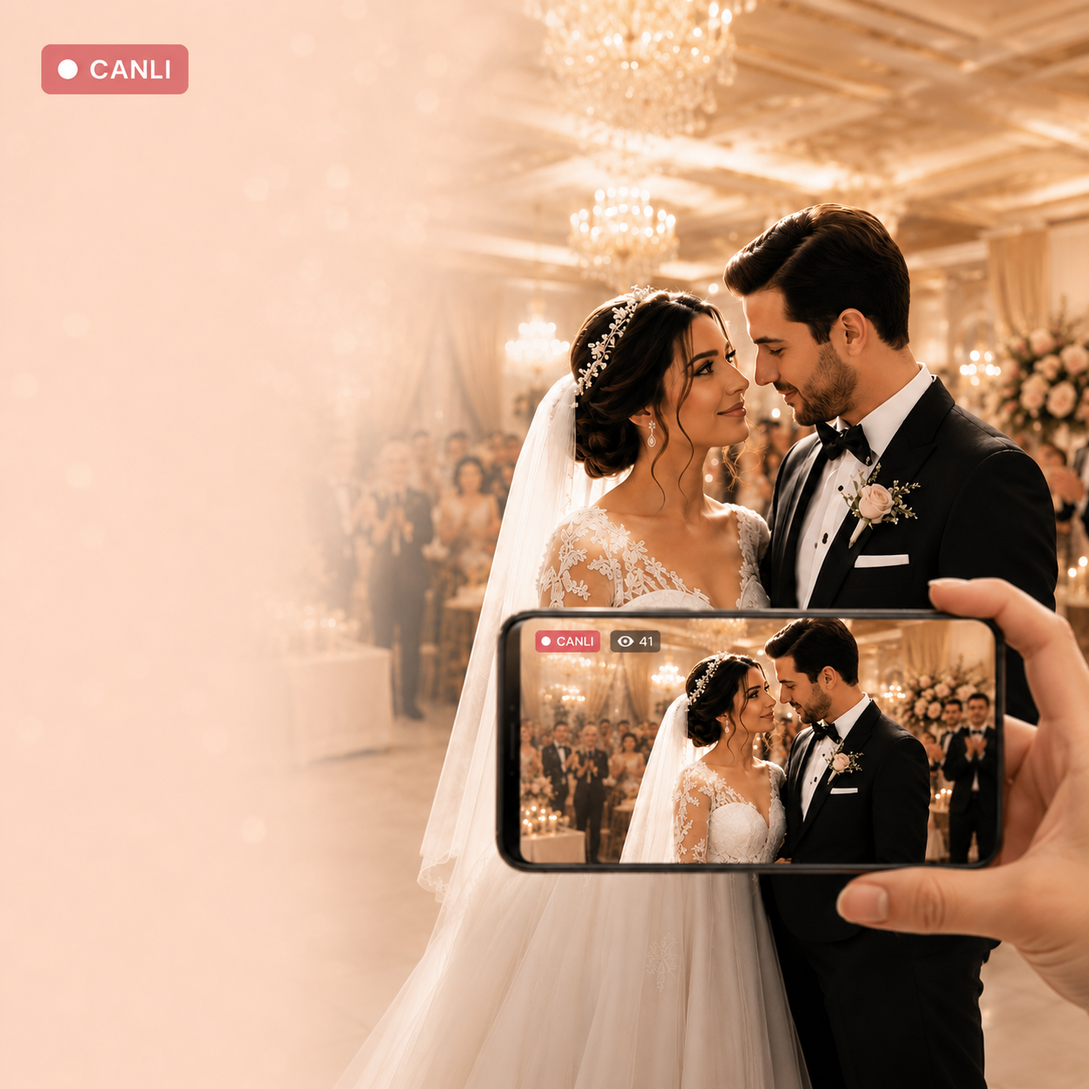
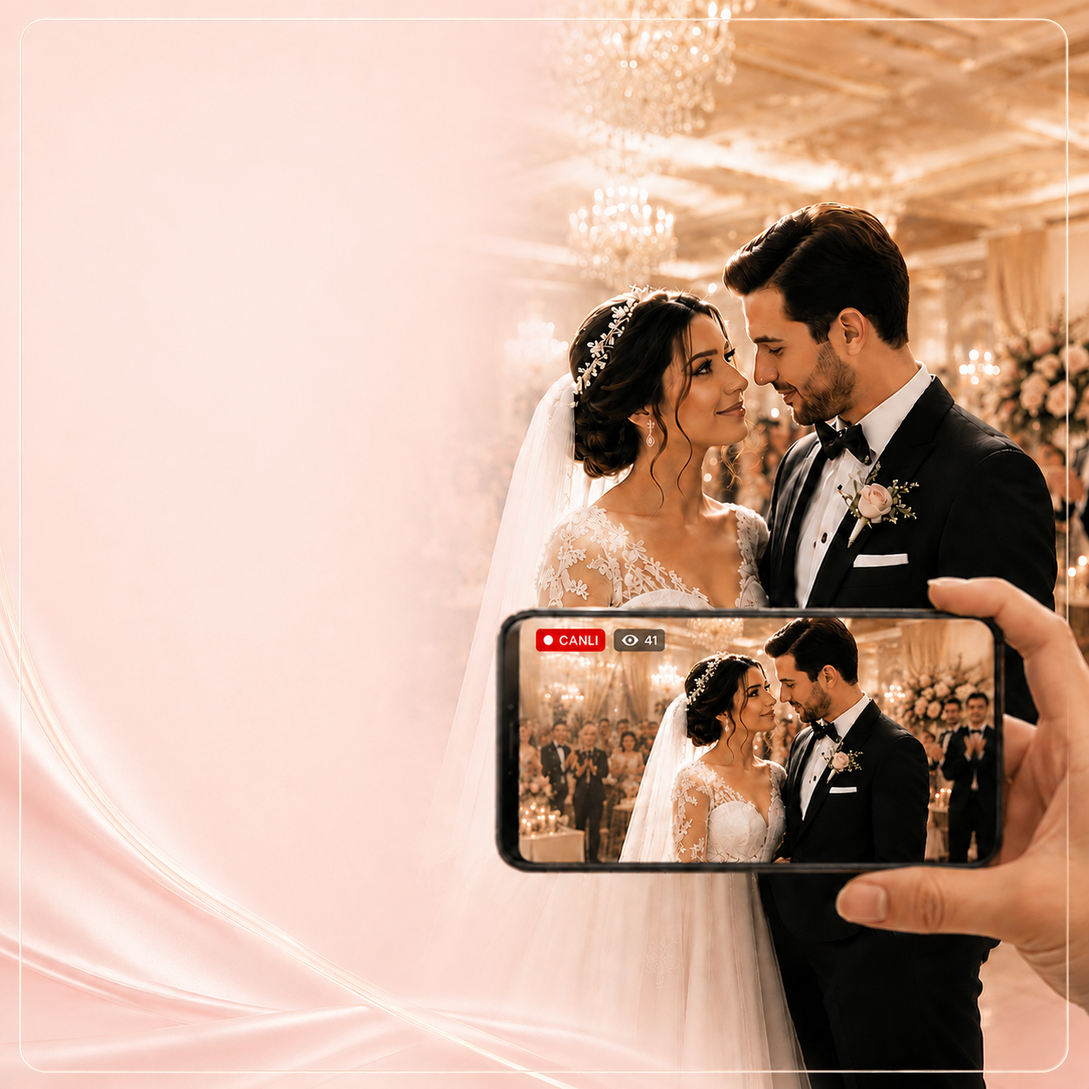
feat: kart yenileme, paket revizyonu, canlı yayın layout
- Canlı Yayın kartı yeni image + 3 badge (Yüksek Çözünürlük, Tek Tıkla Yayın,
  Uygulamasız izleme); masaüstü min-h-300px Altın stili grid layout
- Tebrik kartı masaüstü min-h-300px
- Albüm kartı masaüstü min-h-300px + foto2/3/4 ön düzen, mobil filmstrip foto2-6
- Paketler: izleyici 100/200/300 revize, 3 tebrik satırı → "Tebrik Mesajları",
  Standart pakete 1080p Full HD ekle
- Instagram @nikahim.co → @nikahim_
- Admin paket sil: optimistic UI (1.5s UI blocking fix)
- Canlı yayın masaüstü: altın tak zoom 0.8, CTA sol panele taşındı

diff --git a/app/page.tsx b/app/page.tsx
@@ -572,37 +572,65 @@ export default function Home() {
       {/* ÖZELLİK KARTLARI - Altın Toplama + Nikah Albümü */}
       <section className="py-16">
         <div className="max-w-7xl mx-auto px-6 space-y-14 md:space-y-16">
-          {/* Canlı Yayın - mobile (1:1 kare) + desktop (1798x875 landscape) */}
-          <div className="relative rounded-3xl overflow-hidden mx-auto w-full aspect-square md:aspect-[1798/875] max-w-[720px] md:max-w-none" style={{ boxShadow: '0 16px 48px rgba(200,140,140,0.18), 0 4px 14px rgba(0,0,0,0.04)', border: '1px solid rgba(232,180,170,0.25)' }}>
+          {/* Canlı Yayın - mobile (1:1 kare) + desktop (Altın stili, min-h-300px) */}
+          <div className="relative rounded-3xl overflow-hidden mx-auto w-full aspect-square md:aspect-auto max-w-[720px] md:max-w-none" style={{ boxShadow: '0 16px 48px rgba(200,140,140,0.18), 0 4px 14px rgba(0,0,0,0.04)', border: '1px solid rgba(232,180,170,0.25)' }}>
             <img src="/bg-canli-yayin-s2.png" alt="" className="md:hidden absolute inset-0 w-full h-full object-cover pointer-events-none select-none" />
             <img src="/bg-canli-yayin-masaustu.png" alt="Canlı Yayın ile mutluluğunuzu paylaşın" className="hidden md:block absolute inset-0 w-full h-full object-cover pointer-events-none select-none" />
 
-            {/* Mobil heading + açıklama */}
-            <div className="md:hidden absolute" style={{ top: '22%', left: '5.5%', width: '54%' }}>
+            {/* Mobil heading + açıklama + badges */}
+            <div className="md:hidden absolute" style={{ top: '17%', left: '5.5%', width: '54%' }}>
               <h3 className="leading-[1.05]" style={{ fontFamily: 'var(--font-playfair)', color: '#C8686E', fontWeight: 600, fontSize: 'clamp(26px, 6.4vw, 52px)' }}>Canlı Yayın</h3>
               <h3 className="leading-[1.1] mt-1" style={{ fontFamily: 'var(--font-playfair)', color: '#1F1F1F', fontWeight: 600, fontSize: 'clamp(20px, 4.8vw, 38px)' }}>ile mutluluğunuzu paylaşın!</h3>
-              <p className="mt-7 leading-relaxed text-[13px]" style={{ color: '#6E5A5A' }}>
+              <p className="mt-4 leading-relaxed text-[13px]" style={{ color: '#6E5A5A' }}>
                 Düğününüzü veya Nikahınızı<br />
                 Canlı Yayınlayın, bu anı<br />
                 kimse kaçırmasın!
               </p>
+              <div className="flex flex-wrap gap-1.5 mt-3">
+                {[
+                  { label: 'Yüksek Çözünürlük', icon: <svg className="w-3 h-3" fill="none" stroke="currentColor" viewBox="0 0 24 24"><path strokeLinecap="round" strokeLinejoin="round" strokeWidth={2.5} d="M9 12l2 2 4-4m6 2a9 9 0 11-18 0 9 9 0 0118 0z" /></svg> },
+                  { label: 'Tek Tıkla Yayın', icon: <svg className="w-3 h-3" fill="none" stroke="currentColor" viewBox="0 0 24 24"><path strokeLinecap="round" strokeLinejoin="round" strokeWidth={2.5} d="M9 12l2 2 4-4m6 2a9 9 0 11-18 0 9 9 0 0118 0z" /></svg> },
+                  { label: 'Uygulamasız izleme', icon: <svg className="w-3 h-3" fill="none" stroke="currentColor" viewBox="0 0 24 24"><path strokeLinecap="round" strokeLinejoin="round" strokeWidth={2.5} d="M9 12l2 2 4-4m6 2a9 9 0 11-18 0 9 9 0 0118 0z" /></svg> },
+                ].map((b, i) => (
+                  <span key={i} className="inline-flex items-center gap-1.5 px-2.5 py-1.5 rounded-full text-[10px] font-semibold whitespace-nowrap" style={{ background: 'rgba(255,255,255,0.85)', color: '#C8686E', border: '1px solid rgba(200,104,110,0.18)', boxShadow: '0 2px 6px rgba(200,104,110,0.06)' }}>{b.icon}{b.label}</span>
+                ))}
+              </div>
             </div>
 
-            {/* Masaüstü heading + açıklama — landscape sol panel */}
-            <div className="hidden md:block absolute" style={{ top: '20%', left: '6%', width: '44%' }}>
-              <h3 className="leading-[1.05]" style={{ fontFamily: 'var(--font-playfair)', color: '#C8686E', fontWeight: 600, fontSize: 'clamp(40px, 4.6vw, 72px)' }}>Canlı Yayın</h3>
-              <h3 className="leading-[1.1] mt-2" style={{ fontFamily: 'var(--font-playfair)', color: '#1F1F1F', fontWeight: 600, fontSize: 'clamp(28px, 3vw, 46px)' }}>ile mutluluğunuzu paylaşın!</h3>
-              <p className="mt-6 leading-relaxed text-[16px] lg:text-[18px]" style={{ color: '#6E5A5A' }}>
-                Düğününüzü veya Nikahınızı Canlı Yayınlayın,<br />
-                bu anı kimse kaçırmasın!
-              </p>
-            </div>
-
-            {/* Yıldız notu altta — her iki view'da da görünür */}
-            <div className="absolute" style={{ bottom: '3%', left: 0, right: 0 }}>
+            {/* Mobil footnote */}
+            <div className="md:hidden absolute" style={{ bottom: '3%', left: 0, right: 0 }}>
               <p className="text-center" style={{ color: '#8A7878', fontSize: 'clamp(8px, 1.1vw, 12px)', fontWeight: 500 }}>
                 * Canlı yayın kalitesi ve çözünürlüğü internet bağlantı hızınıza bağlıdır.
               </p>
+            </div>
+
+            {/* Masaüstü — Altın stili grid (sol içerik, sağ image alanı) */}
+            <div className="hidden md:grid relative md:grid-cols-[1fr_36%] min-h-[300px]">
+              <div className="py-7 pl-12 pr-4 flex flex-col justify-between min-h-[300px]">
+                <div>
+                  <h3 className="leading-[1.05]" style={{ fontFamily: 'var(--font-playfair)', color: '#C8686E', fontWeight: 600, fontSize: 'clamp(30px, 3vw, 44px)' }}>Canlı Yayın</h3>
+                  <h3 className="leading-[1.1] mt-1" style={{ fontFamily: 'var(--font-playfair)', color: '#1F1F1F', fontWeight: 600, fontSize: 'clamp(20px, 2vw, 28px)' }}>ile mutluluğunuzu paylaşın!</h3>
+                  <p className="mt-3 leading-relaxed text-[14px] lg:text-[15px]" style={{ color: '#6E5A5A' }}>
+                    Düğününüzü veya Nikahınızı Canlı Yayınlayın,<br />
+                    bu anı kimse kaçırmasın!
+                  </p>
+                </div>
+                <div>
+                  <div className="flex gap-2 flex-wrap mt-3">
+                    {[
+                      { label: 'Yüksek Çözünürlük', icon: <svg className="w-3 h-3" fill="none" stroke="currentColor" viewBox="0 0 24 24"><path strokeLinecap="round" strokeLinejoin="round" strokeWidth={2.5} d="M9 12l2 2 4-4m6 2a9 9 0 11-18 0 9 9 0 0118 0z" /></svg> },
+                      { label: 'Tek Tıkla Yayın', icon: <svg className="w-3 h-3" fill="none" stroke="currentColor" viewBox="0 0 24 24"><path strokeLinecap="round" strokeLinejoin="round" strokeWidth={2.5} d="M9 12l2 2 4-4m6 2a9 9 0 11-18 0 9 9 0 0118 0z" /></svg> },
+                      { label: 'Uygulamasız izleme', icon: <svg className="w-3 h-3" fill="none" stroke="currentColor" viewBox="0 0 24 24"><path strokeLinecap="round" strokeLinejoin="round" strokeWidth={2.5} d="M9 12l2 2 4-4m6 2a9 9 0 11-18 0 9 9 0 0118 0z" /></svg> },
+                    ].map((b, i) => (
+                      <span key={i} className="inline-flex items-center gap-1.5 px-2.5 py-1.5 rounded-full text-[12px] font-semibold whitespace-nowrap" style={{ background: 'rgba(255,255,255,0.85)', color: '#C8686E', border: '1px solid rgba(200,104,110,0.18)', boxShadow: '0 2px 6px rgba(200,104,110,0.06)' }}>{b.icon}{b.label}</span>
+                    ))}
+                  </div>
+                  <p className="text-[10px] italic mt-2" style={{ color: '#8A7878' }}>
+                    * Canlı yayın kalitesi ve çözünürlüğü internet bağlantı hızınıza bağlıdır.
+                  </p>
+                </div>
+              </div>
+              <div className="hidden md:block" />
             </div>
           </div>
 
@@ -632,8 +660,8 @@ export default function Home() {
             </div>
           </div>
 
-          {/* Tebrik Mesajları - mobile (1:1) + desktop (1798x875 landscape) */}
-          <div className="relative rounded-3xl overflow-hidden mx-auto w-full aspect-square md:aspect-[1798/875] max-w-[720px] md:max-w-none" style={{ boxShadow: '0 16px 48px rgba(200,140,140,0.18), 0 4px 14px rgba(0,0,0,0.04)', border: '1px solid rgba(232,180,170,0.25)' }}>
+          {/* Tebrik Mesajları - mobile (1:1) + desktop (Altın stili, min-h-300px) */}
+          <div className="relative rounded-3xl overflow-hidden mx-auto w-full aspect-square md:aspect-auto max-w-[720px] md:max-w-none" style={{ boxShadow: '0 16px 48px rgba(200,140,140,0.18), 0 4px 14px rgba(0,0,0,0.04)', border: '1px solid rgba(232,180,170,0.25)' }}>
             <img src="/bg-tebrik.png" alt="" className="md:hidden absolute inset-0 w-full h-full object-cover pointer-events-none select-none" />
             <img src="/bg-tebrik-masaustu.png" alt="Tebrik mesajlarınızı kabul edin" className="hidden md:block absolute inset-0 w-full h-full object-cover pointer-events-none select-none" />
 
@@ -653,18 +681,19 @@ export default function Home() {
               </p>
             </div>
 
-            {/* Masaüstü heading + açıklama — landscape sol panel */}
-            <div className="hidden md:block absolute" style={{ top: '18%', left: '6%', width: '44%' }}>
-              <h3 className="leading-[1.05]" style={{ fontFamily: 'var(--font-playfair)', color: '#1F1F1F', fontWeight: 600, fontSize: 'clamp(36px, 4vw, 60px)' }}>Tebrik</h3>
-              <h3 className="leading-[1.05]" style={{ fontFamily: 'var(--font-playfair)', color: '#C8686E', fontWeight: 600, fontSize: 'clamp(36px, 4vw, 60px)' }}>mesajlarınızı</h3>
-              <h3 className="leading-[1.05]" style={{ fontFamily: 'var(--font-playfair)', color: '#1F1F1F', fontWeight: 600, fontSize: 'clamp(36px, 4vw, 60px)' }}>kabul edin!</h3>
-              <div className="mt-5 mb-5" style={{ width: 'clamp(48px, 5vw, 72px)', height: '2px', background: '#C8686E', borderRadius: '2px' }} />
-              <p className="leading-relaxed text-[16px] lg:text-[18px]" style={{ color: '#7A6B6B' }}>
-                Canlı Yayınınızı izleyen davetliler<br />
-                Video Kaydı, Ses Kaydı veya Yazılı<br />
-                Mesaj yöntemlerinden biri ile size<br />
-                tebrik mesajı iletsin!
-              </p>
+            {/* Masaüstü — grid: sol içerik, sağ image alanı */}
+            <div className="hidden md:grid relative md:grid-cols-[1fr_36%] min-h-[300px]">
+              <div className="py-7 pl-12 pr-4 flex flex-col justify-center min-h-[300px]">
+                <h3 className="leading-[1.05]" style={{ fontFamily: 'var(--font-playfair)', color: '#1F1F1F', fontWeight: 600, fontSize: 'clamp(26px, 2.8vw, 40px)' }}>Tebrik</h3>
+                <h3 className="leading-[1.05]" style={{ fontFamily: 'var(--font-playfair)', color: '#C8686E', fontWeight: 600, fontSize: 'clamp(26px, 2.8vw, 40px)' }}>mesajlarınızı</h3>
+                <h3 className="leading-[1.05]" style={{ fontFamily: 'var(--font-playfair)', color: '#1F1F1F', fontWeight: 600, fontSize: 'clamp(26px, 2.8vw, 40px)' }}>kabul edin!</h3>
+                <div className="mt-3 mb-3" style={{ width: '60px', height: '2px', background: '#C8686E', borderRadius: '2px' }} />
+                <p className="leading-relaxed text-[14px] lg:text-[15px]" style={{ color: '#7A6B6B' }}>
+                  Canlı Yayınınızı izleyen davetliler Video Kaydı, Ses Kaydı<br />
+                  veya Yazılı Mesaj yöntemlerinden biri ile size tebrik mesajı iletsin!
+                </p>
+              </div>
+              <div className="hidden md:block" />
             </div>
           </div>
 
@@ -685,26 +714,26 @@ export default function Home() {
                 </div>
               </div>
 
-              {/* 3 statik foto — %10 büyütüldü, çerçeveler ince (p-1→p-0.5, p-1.5→p-1) */}
+              {/* 3 statik foto — foto 2 sol, foto 3 sağ, foto 4 önde */}
               <div className="relative w-full flex items-center justify-center" style={{ height: 'clamp(205px, 33.7vw, 300px)' }}>
-                {/* Sol foto */}
+                {/* Sol foto - foto 2 */}
                 <div className="absolute" style={{ left: '50%', top: '50%', transform: 'translate(-50%, -50%) translateX(clamp(-84px, -15vw, -120px)) rotate(-7deg)', zIndex: 1 }}>
                   <div className="bg-white p-0.5 rounded-lg" style={{ boxShadow: '0 6px 16px rgba(80,60,40,0.20), 0 2px 6px rgba(0,0,0,0.06)' }}>
-                    <img src="/wedding1.jpg" alt="" className="block object-cover rounded-md" style={{ width: 'clamp(94px, 16vw, 135px)', height: 'clamp(112px, 18.7vw, 164px)' }} />
+                    <img src="/foto2.png" alt="" className="block object-cover rounded-md" style={{ width: 'clamp(94px, 16vw, 135px)', height: 'clamp(112px, 18.7vw, 164px)' }} />
                   </div>
                 </div>
 
-                {/* Sağ foto (play kaldırıldı) */}
+                {/* Sağ foto - foto 3 */}
                 <div className="absolute" style={{ left: '50%', top: '50%', transform: 'translate(-50%, -50%) translateX(clamp(84px, 15vw, 120px)) rotate(7deg)', zIndex: 1 }}>
                   <div className="bg-white p-0.5 rounded-lg" style={{ boxShadow: '0 6px 16px rgba(80,60,40,0.20), 0 2px 6px rgba(0,0,0,0.06)' }}>
-                    <img src="/wedding3.jpg" alt="" className="block object-cover rounded-md" style={{ width: 'clamp(94px, 16vw, 135px)', height: 'clamp(112px, 18.7vw, 164px)' }} />
+                    <img src="/foto3.png" alt="" className="block object-cover rounded-md" style={{ width: 'clamp(94px, 16vw, 135px)', height: 'clamp(112px, 18.7vw, 164px)' }} />
                   </div>
                 </div>
 
-                {/* Orta foto + 128+ badge */}
+                {/* Orta foto - foto 4 (önde) + 128+ badge */}
                 <div className="absolute" style={{ left: '50%', top: '50%', transform: 'translate(-50%, -50%) translateY(-4px)', zIndex: 3 }}>
                   <div className="bg-white p-1 rounded-xl relative" style={{ boxShadow: '0 16px 36px rgba(80,60,40,0.32), 0 4px 12px rgba(0,0,0,0.10)' }}>
-                    <img src="/wedding2.jpg" alt="" className="block object-cover rounded-lg" style={{ width: 'clamp(117px, 19.6vw, 164px)', height: 'clamp(140px, 23.4vw, 197px)' }} />
+                    <img src="/foto4.png" alt="" className="block object-cover rounded-lg" style={{ width: 'clamp(117px, 19.6vw, 164px)', height: 'clamp(140px, 23.4vw, 197px)' }} />
                     <div className="absolute bottom-2.5 left-2.5 flex items-center gap-1.5 px-2.5 py-1 rounded-full"
                          style={{ background: 'linear-gradient(135deg, #C26068, #9F4F58)', boxShadow: '0 3px 8px rgba(160,80,90,0.40), inset 0 1px 0 rgba(255,255,255,0.25)' }}>
                       <svg className="w-3 h-3" fill="none" stroke="white" strokeWidth="2" viewBox="0 0 24 24">
@@ -734,8 +763,7 @@ export default function Home() {
                 <div style={{ display: 'flex', gap: '10px', width: 'fit-content', animation: 'albumFilmstripRTL2 28s linear infinite' }}>
                   {[...Array(2)].map((_, dup) => (
                     [
-                      '/wedding1.jpg', '/wedding2.jpg', '/wedding3.jpg',
-                      '/wedding1.jpg', '/wedding2.jpg', '/wedding3.jpg',
+                      '/foto2.png', '/foto3.png', '/foto4.png', '/foto5.png', '/foto6.jpg',
                     ].map((url, i) => (
                       <div key={`${dup}-${i}`}
                            className="flex-shrink-0 rounded-lg overflow-hidden"
@@ -761,59 +789,59 @@ export default function Home() {
             </div>
           </div>
 
-          {/* Fotoğraf Albümü — MASAÜSTÜ kart (2-col grid, sol heading+badges, sağ 3-foto) */}
-          <div className="hidden md:block relative rounded-3xl overflow-hidden mx-auto w-full aspect-[1798/875]" style={{ backgroundImage: 'url(/bg-album-masaustu.png)', backgroundSize: 'cover', backgroundPosition: 'center', boxShadow: '0 16px 48px rgba(200,140,140,0.18), 0 4px 14px rgba(0,0,0,0.04)', border: '1px solid rgba(232,180,170,0.25)' }}>
-            <div className="absolute inset-0 grid grid-cols-2 gap-8 px-16 lg:px-20 py-10 lg:py-14">
+          {/* Fotoğraf Albümü — MASAÜSTÜ kart (Altın stili, min-h-300px) */}
+          <div className="hidden md:block relative rounded-3xl overflow-hidden mx-auto w-full" style={{ backgroundImage: 'url(/bg-album-masaustu.png)', backgroundSize: 'cover', backgroundPosition: 'center', boxShadow: '0 16px 48px rgba(200,140,140,0.18), 0 4px 14px rgba(0,0,0,0.04)', border: '1px solid rgba(232,180,170,0.25)' }}>
+            <div className="grid grid-cols-2 gap-6 px-12 lg:px-16 py-6 min-h-[300px]">
 
               {/* SOL — Heading + açıklama + badges */}
               <div className="flex flex-col justify-center">
                 <div style={{ fontFamily: 'var(--font-playfair), Georgia, serif', fontWeight: 500, letterSpacing: '0.3px', lineHeight: 1.1 }}>
-                  <div style={{ color: '#C8686E', fontSize: 'clamp(40px, 4.4vw, 64px)' }}>Fotoğraf</div>
-                  <div className="flex items-center gap-4 mt-1" style={{ fontSize: 'clamp(34px, 3.6vw, 52px)' }}>
-                    <span className="flex-shrink-0 h-[2px] rounded-full" style={{ width: 'clamp(40px, 4vw, 64px)', background: 'linear-gradient(to right, transparent, #C8686E, transparent)' }} />
+                  <div style={{ color: '#C8686E', fontSize: 'clamp(28px, 3vw, 44px)' }}>Fotoğraf</div>
+                  <div className="flex items-center gap-3 mt-1" style={{ fontSize: 'clamp(22px, 2.4vw, 34px)' }}>
+                    <span className="flex-shrink-0 h-[2px] rounded-full" style={{ width: 'clamp(28px, 3vw, 48px)', background: 'linear-gradient(to right, transparent, #C8686E, transparent)' }} />
                     <span style={{ color: '#2B2B2B' }}>Albümü Oluşturun</span>
                   </div>
                 </div>
-                <p className="leading-relaxed mt-6 text-[16px] lg:text-[18px] max-w-[460px]" style={{ color: '#6E5A5A' }}>
-                  Online Fotoğraf albümünüzü oluşturun, ister siz isterseniz de bu mutlu günde yanınızda bulunanlar gün boyunca çekilen fotoğrafları eklesin. Tüm fotoğraflarınızı tek bir yerde toplayın, kolayca indirin!
+                <p className="leading-relaxed mt-3 text-[13px] lg:text-[14px] max-w-[460px]" style={{ color: '#6E5A5A' }}>
+                  Online Fotoğraf albümünüzü oluşturun, ister siz isterseniz de bu mutlu günde yanınızda bulunanlar gün boyunca çekilen fotoğrafları eklesin.
                 </p>
-                <div className="flex gap-3 mt-7 flex-wrap">
-                  <span className="inline-flex items-center gap-1.5 px-3 py-2 rounded-full text-[13px] font-semibold whitespace-nowrap" style={{ background: 'rgba(255,255,255,0.85)', color: '#C8686E', border: '1px solid rgba(200,104,110,0.18)', boxShadow: '0 2px 6px rgba(200,104,110,0.06)' }}>
-                    <svg className="w-3.5 h-3.5" fill="none" stroke="currentColor" viewBox="0 0 24 24"><path strokeLinecap="round" strokeLinejoin="round" strokeWidth={2.2} d="M17 20h5v-2a4 4 0 00-3-3.87M9 20H4v-2a4 4 0 013-3.87m6-3.13a4 4 0 100-8 4 4 0 000 8zm6 0a3 3 0 100-6 3 3 0 000 6zm-12 0a3 3 0 100-6 3 3 0 000 6z" /></svg>
+                <div className="flex gap-2 mt-3 flex-wrap">
+                  <span className="inline-flex items-center gap-1.5 px-2.5 py-1.5 rounded-full text-[12px] font-semibold whitespace-nowrap" style={{ background: 'rgba(255,255,255,0.85)', color: '#C8686E', border: '1px solid rgba(200,104,110,0.18)', boxShadow: '0 2px 6px rgba(200,104,110,0.06)' }}>
+                    <svg className="w-3 h-3" fill="none" stroke="currentColor" viewBox="0 0 24 24"><path strokeLinecap="round" strokeLinejoin="round" strokeWidth={2.2} d="M17 20h5v-2a4 4 0 00-3-3.87M9 20H4v-2a4 4 0 013-3.87m6-3.13a4 4 0 100-8 4 4 0 000 8zm6 0a3 3 0 100-6 3 3 0 000 6zm-12 0a3 3 0 100-6 3 3 0 000 6z" /></svg>
                     Birlikte Yükleyin
                   </span>
-                  <span className="inline-flex items-center gap-1.5 px-3 py-2 rounded-full text-[13px] font-semibold whitespace-nowrap" style={{ background: 'rgba(255,255,255,0.85)', color: '#C8686E', border: '1px solid rgba(200,104,110,0.18)', boxShadow: '0 2px 6px rgba(200,104,110,0.06)' }}>
-                    <svg className="w-3.5 h-3.5" fill="none" stroke="currentColor" viewBox="0 0 24 24"><path strokeLinecap="round" strokeLinejoin="round" strokeWidth={2.2} d="M4 16v2a2 2 0 002 2h12a2 2 0 002-2v-2M7 10l5 5 5-5M12 15V3" /></svg>
+                  <span className="inline-flex items-center gap-1.5 px-2.5 py-1.5 rounded-full text-[12px] font-semibold whitespace-nowrap" style={{ background: 'rgba(255,255,255,0.85)', color: '#C8686E', border: '1px solid rgba(200,104,110,0.18)', boxShadow: '0 2px 6px rgba(200,104,110,0.06)' }}>
+                    <svg className="w-3 h-3" fill="none" stroke="currentColor" viewBox="0 0 24 24"><path strokeLinecap="round" strokeLinejoin="round" strokeWidth={2.2} d="M4 16v2a2 2 0 002 2h12a2 2 0 002-2v-2M7 10l5 5 5-5M12 15V3" /></svg>
                     Kolayca İndirin
                   </span>
                 </div>
               </div>
 
-              {/* SAĞ — 3 foto eğri arrangement */}
+              {/* SAĞ — 3 foto eğri arrangement (foto 4 önde, foto 2 sol, foto 3 sağ) */}
               <div className="relative flex items-center justify-center">
-                {/* Sol foto */}
-                <div className="absolute" style={{ left: '50%', top: '50%', transform: 'translate(-50%, -50%) translateX(-110px) rotate(-7deg)', zIndex: 1 }}>
+                {/* Sol foto - foto 2 */}
+                <div className="absolute" style={{ left: '50%', top: '50%', transform: 'translate(-50%, -50%) translateX(-90px) rotate(-7deg)', zIndex: 1 }}>
                   <div className="bg-white p-1 rounded-xl" style={{ boxShadow: '0 8px 20px rgba(80,60,40,0.22), 0 2px 8px rgba(0,0,0,0.06)' }}>
-                    <img src="/wedding1.jpg" alt="" className="block object-cover rounded-lg" style={{ width: 'clamp(120px, 10vw, 160px)', height: 'clamp(150px, 12.5vw, 200px)' }} />
+                    <img src="/foto2.png" alt="" className="block object-cover rounded-lg" style={{ width: '110px', height: '150px' }} />
                   </div>
                 </div>
-                {/* Sağ foto */}
-                <div className="absolute" style={{ left: '50%', top: '50%', transform: 'translate(-50%, -50%) translateX(110px) rotate(7deg)', zIndex: 1 }}>
+                {/* Sağ foto - foto 3 */}
+                <div className="absolute" style={{ left: '50%', top: '50%', transform: 'translate(-50%, -50%) translateX(90px) rotate(7deg)', zIndex: 1 }}>
                   <div className="bg-white p-1 rounded-xl" style={{ boxShadow: '0 8px 20px rgba(80,60,40,0.22), 0 2px 8px rgba(0,0,0,0.06)' }}>
-                    <img src="/wedding3.jpg" alt="" className="block object-cover rounded-lg" style={{ width: 'clamp(120px, 10vw, 160px)', height: 'clamp(150px, 12.5vw, 200px)' }} />
+                    <img src="/foto3.png" alt="" className="block object-cover rounded-lg" style={{ width: '110px', height: '150px' }} />
                   </div>
                 </div>
-                {/* Orta foto + badge */}
-                <div className="absolute" style={{ left: '50%', top: '50%', transform: 'translate(-50%, -50%) translateY(-4px)', zIndex: 3 }}>
+                {/* Orta foto - foto 4 (önde) + badge */}
+                <div className="absolute" style={{ left: '50%', top: '50%', transform: 'translate(-50%, -50%)', zIndex: 3 }}>
                   <div className="bg-white p-1.5 rounded-2xl relative" style={{ boxShadow: '0 20px 44px rgba(80,60,40,0.36), 0 6px 16px rgba(0,0,0,0.12)' }}>
-                    <img src="/wedding2.jpg" alt="" className="block object-cover rounded-xl" style={{ width: 'clamp(150px, 13vw, 200px)', height: 'clamp(190px, 16vw, 248px)' }} />
-                    <div className="absolute bottom-3 left-3 flex items-center gap-1.5 px-3 py-1.5 rounded-full" style={{ background: 'linear-gradient(135deg, #C26068, #9F4F58)', boxShadow: '0 3px 10px rgba(160,80,90,0.42), inset 0 1px 0 rgba(255,255,255,0.25)' }}>
-                      <svg className="w-3.5 h-3.5" fill="none" stroke="white" strokeWidth="2" viewBox="0 0 24 24">
+                    <img src="/foto4.png" alt="" className="block object-cover rounded-xl" style={{ width: '140px', height: '190px' }} />
+                    <div className="absolute bottom-2 left-2 flex items-center gap-1.5 px-2.5 py-1 rounded-full" style={{ background: 'linear-gradient(135deg, #C26068, #9F4F58)', boxShadow: '0 3px 10px rgba(160,80,90,0.42), inset 0 1px 0 rgba(255,255,255,0.25)' }}>
+                      <svg className="w-3 h-3" fill="none" stroke="white" strokeWidth="2" viewBox="0 0 24 24">
                         <rect x="3" y="3" width="18" height="18" rx="2" />
                         <circle cx="8.5" cy="8.5" r="1.5" fill="white" stroke="none" />
                         <path d="M21 15l-5-5L5 21" />
                       </svg>
-                      <span className="text-[13px] font-bold text-white leading-none" style={{ fontFamily: 'var(--font-geist-sans), Inter, sans-serif' }}>128+</span>
+                      <span className="text-[11px] font-bold text-white leading-none" style={{ fontFamily: 'var(--font-geist-sans), Inter, sans-serif' }}>128+</span>
                     </div>
                   </div>
                 </div>
@@ -935,9 +963,9 @@ export default function Home() {
           </div>
           <div className="grid md:grid-cols-3 gap-14 md:gap-8 max-w-5xl mx-auto items-start">
             {[
-              { id: 0, name: 'Standart', sub: 'Temel ihtiyaçlar için ideal', price: '₺999', oldPrice: '₺1.249', discountLabel: '%20 İndirim', badge: null, features: ['30 Dakika Canlı Yayın', '200 İzleyici', '1080p*', 'Fotoğraf Albümü', 'Özel Davetiye Tasarımı', 'Video Tebrik', 'Sesli Tebrik', 'Mesajlı Tebrik', 'Yayın Kaydı ve İndirme'], disabled: [] },
-              { id: 1, name: 'Premium', sub: 'En çok tercih edilen', price: '₺2.499', oldPrice: '₺3.339', discountLabel: '%25 İndirim', badge: 'En Popüler', features: ['60 Dakika Canlı Yayın', '200 İzleyici', '1080p Full HD*', 'Fotoğraf Albümü', 'Özel Davetiye Tasarımı', 'Video Tebrik', 'Sesli Tebrik', 'Mesajlı Tebrik', 'Yayın Kaydı ve İndirme'], disabled: [] },
-              { id: 2, name: 'VIP', sub: 'Maksimum deneyim', price: '₺4.999', oldPrice: '₺7.139', discountLabel: '%30 İndirim', badge: null, features: ['180 Dakika Canlı Yayın', '200 İzleyici', '1080p Full HD*', 'Fotoğraf Albümü', 'Özel Davetiye Tasarımı', 'Video Tebrik', 'Sesli Tebrik', 'Mesajlı Tebrik', 'Yayın Kaydı ve İndirme'], disabled: [] },
+              { id: 0, name: 'Standart', sub: 'Temel ihtiyaçlar için ideal', price: '₺999', oldPrice: '₺1.249', discountLabel: '%20 İndirim', badge: null, features: ['30 Dakika Canlı Yayın', '100 İzleyici', '1080p Full HD*', 'Fotoğraf Albümü', 'Özel Davetiye Tasarımı', 'Tebrik Mesajları', 'Yayın Kaydı ve İndirme'], disabled: [] },
+              { id: 1, name: 'Premium', sub: 'En çok tercih edilen', price: '₺2.499', oldPrice: '₺3.339', discountLabel: '%25 İndirim', badge: 'En Popüler', features: ['60 Dakika Canlı Yayın', '200 İzleyici', '1080p Full HD*', 'Fotoğraf Albümü', 'Özel Davetiye Tasarımı', 'Tebrik Mesajları', 'Yayın Kaydı ve İndirme'], disabled: [] },
+              { id: 2, name: 'VIP', sub: 'Maksimum deneyim', price: '₺4.999', oldPrice: '₺7.139', discountLabel: '%30 İndirim', badge: null, features: ['180 Dakika Canlı Yayın', '300 İzleyici', '1080p Full HD*', 'Fotoğraf Albümü', 'Özel Davetiye Tasarımı', 'Tebrik Mesajları', 'Yayın Kaydı ve İndirme'], disabled: [] },
             ].map((pkg) => {
               const isSelected = selectedPackage === pkg.id;
               return (
@@ -1053,7 +1081,7 @@ export default function Home() {
           {/* Item 35: logo + text + slogan kaldırıldı, sadece Keşfet + Sosyal kaldı */}
           <div className="grid md:grid-cols-2 gap-12 mb-12 max-w-3xl mx-auto">
             <div><h4 className="font-bold mb-5 text-sm tracking-wider uppercase text-gray-300">Keşfet</h4><div className="flex flex-wrap gap-x-6 gap-y-3 text-sm">{['Nikah Ara', 'Nasıl Çalışır', 'Neden Nikahım', 'Paketler', 'SSS'].map((label, i) => { const ids = ['nikah-ara', 'nasil-calisir', 'neden-nikahim', 'paketler', 'sss']; return <button key={i} onClick={() => scrollToSection(ids[i])} className="text-gray-400 hover:text-white transition-colors">{label}</button>; })}</div></div>
-            <div><h4 className="font-bold mb-5 text-sm tracking-wider uppercase text-gray-300">Bizi Takip Edin</h4><a href="https://instagram.com/nikahim.co" target="_blank" className="flex items-center gap-3 text-gray-400 hover:text-white transition-colors"><Image src="/instagram.png" alt="Instagram" width={24} height={24} className="w-6 h-6 rounded" />@nikahim.co</a></div>
+            <div><h4 className="font-bold mb-5 text-sm tracking-wider uppercase text-gray-300">Bizi Takip Edin</h4><a href="https://instagram.com/nikahim_" target="_blank" className="flex items-center gap-3 text-gray-400 hover:text-white transition-colors"><Image src="/instagram.png" alt="Instagram" width={24} height={24} className="w-6 h-6 rounded" />@nikahim_</a></div>
           </div>
           <div className="border-t border-gray-800 pt-8 text-center text-gray-500 text-sm">© 2025 Nikahim.com — Tüm hakları saklıdır.</div>
         </div>

diff --git a/app/canli/[slug]/page.tsx b/app/canli/[slug]/page.tsx
@@ -1865,7 +1865,7 @@ export default function WatchPage() {
             </div>
 
             {/* Aile Bilgisi */}
-            <div className="rounded-2xl p-5 pb-[60px] space-y-3 flex-1" style={{ background: 'rgba(255,255,255,0.7)', backdropFilter: 'blur(12px)', boxShadow: '0 2px 16px rgba(0,0,0,0.03)', border: '1px solid rgba(255,255,255,0.6)' }}>
+            <div className="rounded-2xl p-5 space-y-3 flex-1" style={{ background: 'rgba(255,255,255,0.7)', backdropFilter: 'blur(12px)', boxShadow: '0 2px 16px rgba(0,0,0,0.03)', border: '1px solid rgba(255,255,255,0.6)' }}>
               <div>
                 <p className="text-[11px] font-semibold uppercase tracking-wider mb-1" style={{ color: '#C8686E' }}>Gelin Ailesi</p>
                 <p className="text-gray-600 text-[13px]">{event.bride_father_name && event.bride_mother_name ? `${event.bride_father_name} & ${event.bride_mother_name}` : event.bride_father_name || event.bride_mother_name || '-'}</p>
@@ -1875,6 +1875,18 @@ export default function WatchPage() {
                 <p className="text-[11px] font-semibold uppercase tracking-wider mb-1" style={{ color: '#C8686E' }}>Damat Ailesi</p>
                 <p className="text-gray-600 text-[13px]">{event.groom_father_name && event.groom_mother_name ? `${event.groom_father_name} & ${event.groom_mother_name}` : event.groom_father_name || event.groom_mother_name || '-'}</p>
               </div>
+            </div>
+
+            {/* "Sende bu mutlu gününü..." CTA — sol panel altına alındı */}
+            <div className="rounded-2xl p-5 flex flex-col items-center text-center gap-3" style={{ background: 'rgba(255,255,255,0.85)', backdropFilter: 'blur(12px)', boxShadow: '0 4px 16px rgba(0,0,0,0.05)', border: '1px solid rgba(200,104,110,0.12)' }}>
+              <p className="text-sm font-semibold leading-snug">
+                <span className="text-gray-800">Sende bu mutlu gününü </span>
+                <span style={{ color: '#C8686E' }}>Canlı Yayınlamak</span>
+                <span className="text-gray-800"> ister misin?</span>
+              </p>
+              <button onClick={() => setShowAppPopup(true)} className="w-full px-6 py-2.5 rounded-2xl font-semibold text-sm transition-all hover:scale-[1.02] border-2" style={{ borderColor: 'rgba(200,104,110,0.25)', color: '#C8686E', background: 'rgba(255,255,255,0.9)' }}>
+                Hemen Başla !
+              </button>
             </div>
           </div>
 
@@ -2342,6 +2354,10 @@ export default function WatchPage() {
                   0%, 100% { background-position: 0% 50%; }
                   50% { background-position: 100% 50%; }
                 }
+                /* Masaüstünde altın tak bölümü %20 küçük (kartlar + tüm içerik) */
+                @media (min-width: 1024px) {
+                  #gold-section { zoom: 0.8; }
+                }
               `}</style>
               <div className="px-5 md:px-7 pt-4 pb-4">
                 {/* Başlık — premium typography: "Mutlu Çifte" ince italic gri + "Altın Tak" gold gradient */}
@@ -2756,18 +2772,6 @@ export default function WatchPage() {
                 <svg className="w-3.5 h-3.5 lg:w-3 lg:h-3 flex-shrink-0" fill="none" stroke="#C8686E" viewBox="0 0 24 24"><path strokeLinecap="round" strokeLinejoin="round" strokeWidth={1.8} d="M4 16l4.586-4.586a2 2 0 012.828 0L16 16m-2-2l1.586-1.586a2 2 0 012.828 0L20 14m-6-6h.01M6 20h12a2 2 0 002-2V6a2 2 0 00-2-2H6a2 2 0 00-2 2v12a2 2 0 002 2z" /></svg>
                 <span style={{ fontFamily: 'var(--font-geist-sans), Inter, sans-serif', letterSpacing: '0.2px' }}>Albümü Görüntüle</span>
                 <svg className="w-2.5 h-2.5 flex-shrink-0" fill="none" stroke="#C8686E" viewBox="0 0 24 24"><path strokeLinecap="round" strokeLinejoin="round" strokeWidth={2.5} d="M9 5l7 7-7 7" /></svg>
-              </button>
-            </div>
-
-            {/* "Sende bu mutlu gününü..." CTA — sadece masaüstü (mobilde tab bar var) */}
-            <div className="hidden lg:flex rounded-2xl p-5 flex-col items-center text-center gap-3" style={{ background: 'rgba(255,255,255,0.85)', backdropFilter: 'blur(12px)', boxShadow: '0 4px 16px rgba(0,0,0,0.05)', border: '1px solid rgba(200,104,110,0.12)' }}>
-              <p className="text-sm font-semibold leading-snug">
-                <span className="text-gray-800">Sende bu mutlu gününü </span>
-                <span style={{ color: '#C8686E' }}>Canlı Yayınlamak</span>
-                <span className="text-gray-800"> ister misin?</span>
-              </p>
-              <button onClick={() => setShowAppPopup(true)} className="w-full px-6 py-2.5 rounded-2xl font-semibold text-sm transition-all hover:scale-[1.02] border-2" style={{ borderColor: 'rgba(200,104,110,0.25)', color: '#C8686E', background: 'rgba(255,255,255,0.9)' }}>
-                Hemen Başla !
               </button>
             </div>
 

diff --git a/app/admin/shop-packages/page.tsx b/app/admin/shop-packages/page.tsx
@@ -96,8 +96,13 @@ export default function AdminShopPackagesPage() {
 
   const handleDelete = async (pkg: ShopPackage) => {
     if (!confirm(`"${pkg.name_tr}" paketini silmek istediğinize emin misiniz?`)) return;
-    await supabase.from('shop_packages').delete().eq('id', pkg.id);
-    fetchPackages();
+    const prev = packages;
+    setPackages(prev.filter(p => p.id !== pkg.id));
+    const { error } = await supabase.from('shop_packages').delete().eq('id', pkg.id);
+    if (error) {
+      setPackages(prev);
+      alert('Silme başarısız: ' + error.message);
+    }
   };
 
   return (

diff --git a/app/admin/packages/page.tsx b/app/admin/packages/page.tsx
@@ -99,8 +99,13 @@ export default function AdminPackagesPage() {
 
   const handleDelete = async (pkg: Package) => {
     if (!confirm(`"${pkg.name_tr}" paketini silmek istediğinize emin misiniz?`)) return;
-    await supabase.from('packages').delete().eq('id', pkg.id);
-    fetchPackages();
+    const prev = packages;
+    setPackages(prev.filter(p => p.id !== pkg.id));
+    const { error } = await supabase.from('packages').delete().eq('id', pkg.id);
+    if (error) {
+      setPackages(prev);
+      alert('Silme başarısız: ' + error.message);
+    }
   };
 
   return (
